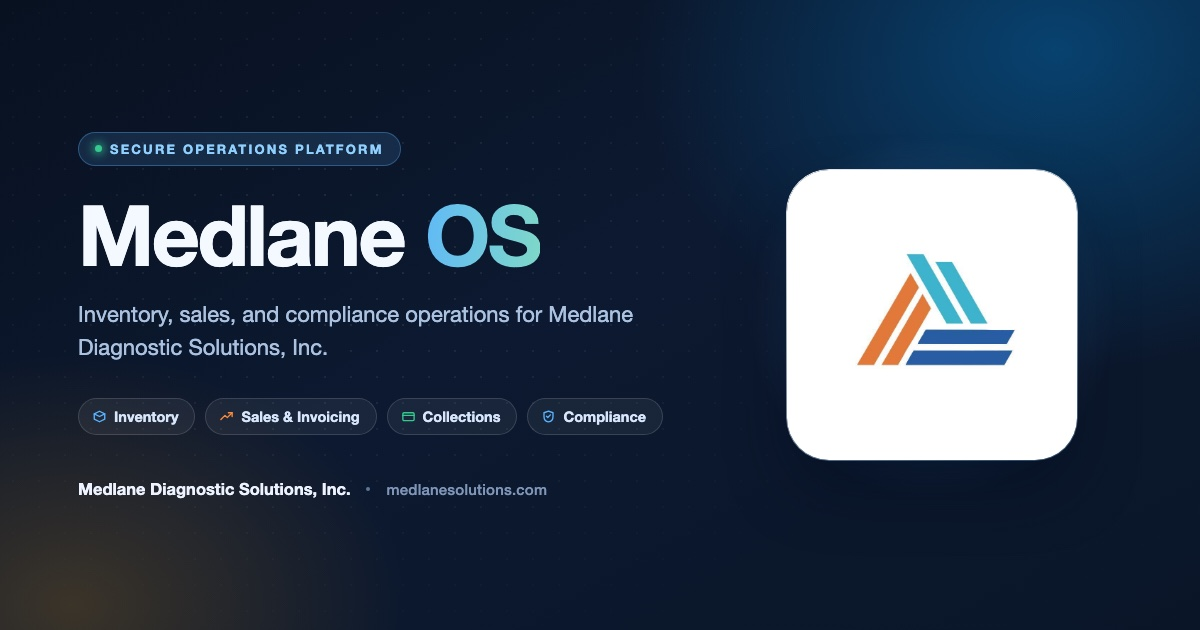
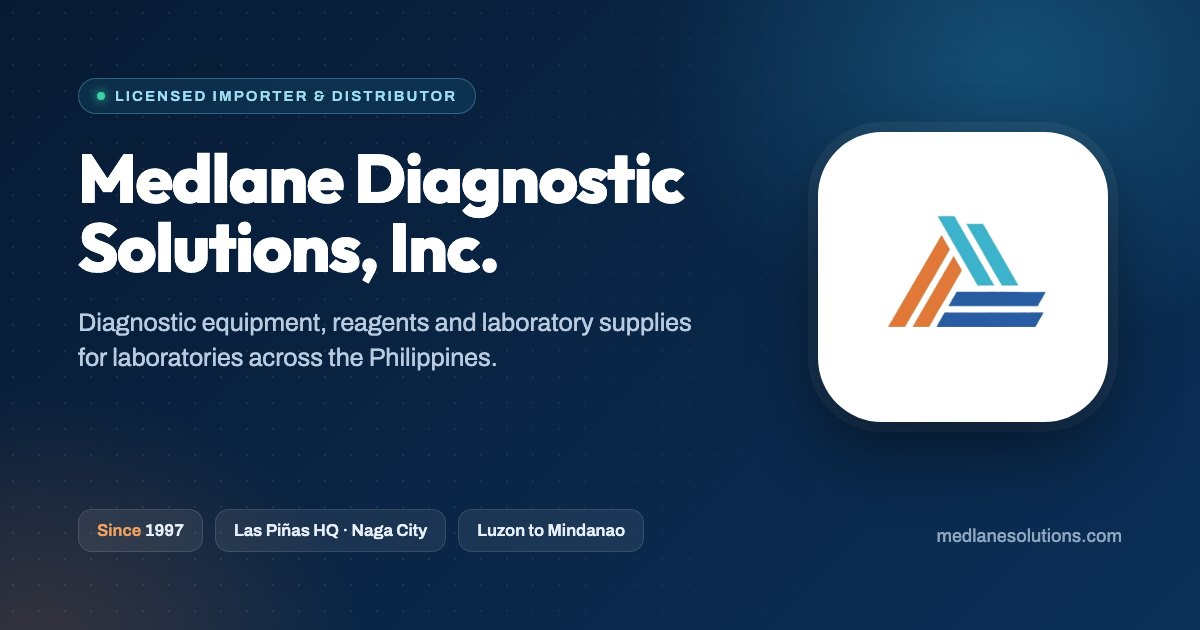
Social preview image presents Medlane Diagnostic Solutions, Inc.

diff --git a/public/index.html b/public/index.html
@@ -28,18 +28,18 @@
     <meta property="og:title" content="Medlane Diagnostic Solutions, Inc." />
     <meta property="og:description" content="Diagnostic equipment, reagents and laboratory supplies for laboratories across the Philippines, from Luzon to Mindanao since 1997." />
     <meta property="og:url" content="https://medlanesolutions.com/" />
-    <meta property="og:image" content="https://medlanesolutions.com/medlane-social-preview.jpg?v=20260826a" />
-    <meta property="og:image:secure_url" content="https://medlanesolutions.com/medlane-social-preview.jpg?v=20260826a" />
+    <meta property="og:image" content="https://medlanesolutions.com/medlane-social-preview.jpg?v=20261113a" />
+    <meta property="og:image:secure_url" content="https://medlanesolutions.com/medlane-social-preview.jpg?v=20261113a" />
     <meta property="og:image:type" content="image/jpeg" />
     <meta property="og:image:width" content="1200" />
     <meta property="og:image:height" content="630" />
-    <meta property="og:image:alt" content="Medlane Diagnostic Solutions logo" />
-    <meta property="og:updated_time" content="2026-08-26T00:00:00+00:00" />
+    <meta property="og:image:alt" content="Medlane Diagnostic Solutions, Inc. logo with the tagline: diagnostic equipment, reagents and laboratory supplies across the Philippines" />
+    <meta property="og:updated_time" content="2026-11-13T00:00:00+00:00" />
     <meta name="twitter:card" content="summary_large_image" />
     <meta name="twitter:title" content="Medlane Diagnostic Solutions, Inc." />
     <meta name="twitter:description" content="Diagnostic equipment, reagents and laboratory supplies for laboratories across the Philippines, from Luzon to Mindanao since 1997." />
-    <meta name="twitter:image" content="https://medlanesolutions.com/medlane-social-preview.jpg?v=20260826a" />
-    <meta name="twitter:image:alt" content="Medlane Diagnostic Solutions logo" />
+    <meta name="twitter:image" content="https://medlanesolutions.com/medlane-social-preview.jpg?v=20261113a" />
+    <meta name="twitter:image:alt" content="Medlane Diagnostic Solutions, Inc. logo with the tagline: diagnostic equipment, reagents and laboratory supplies across the Philippines" />
     <link rel="preconnect" href="https://fonts.googleapis.com" />
     <link rel="preconnect" href="https://fonts.gstatic.com" crossorigin />
     <link href="https://fonts.googleapis.com/css2?family=IBM+Plex+Mono:wght@400;500&family=Manrope:wght@400;500;600;700;800&family=Inter:wght@400;500;600;700;800;900&family=Outfit:wght@400;500;600;700;800&family=Archivo:wght@400;500;600;700;800;900&display=swap" rel="stylesheet" />
@@ -73,7 +73,7 @@
             "width": 512,
             "height": 512
           },
-          "image": "https://medlanesolutions.com/medlane-social-preview.jpg?v=20260826a",
+          "image": "https://medlanesolutions.com/medlane-social-preview.jpg?v=20261113a",
           "foundingDate": "1997",
           "description": "Licensed importer and distributor of diagnostic equipment, reagents, and laboratory supplies across the Philippines."
         }
